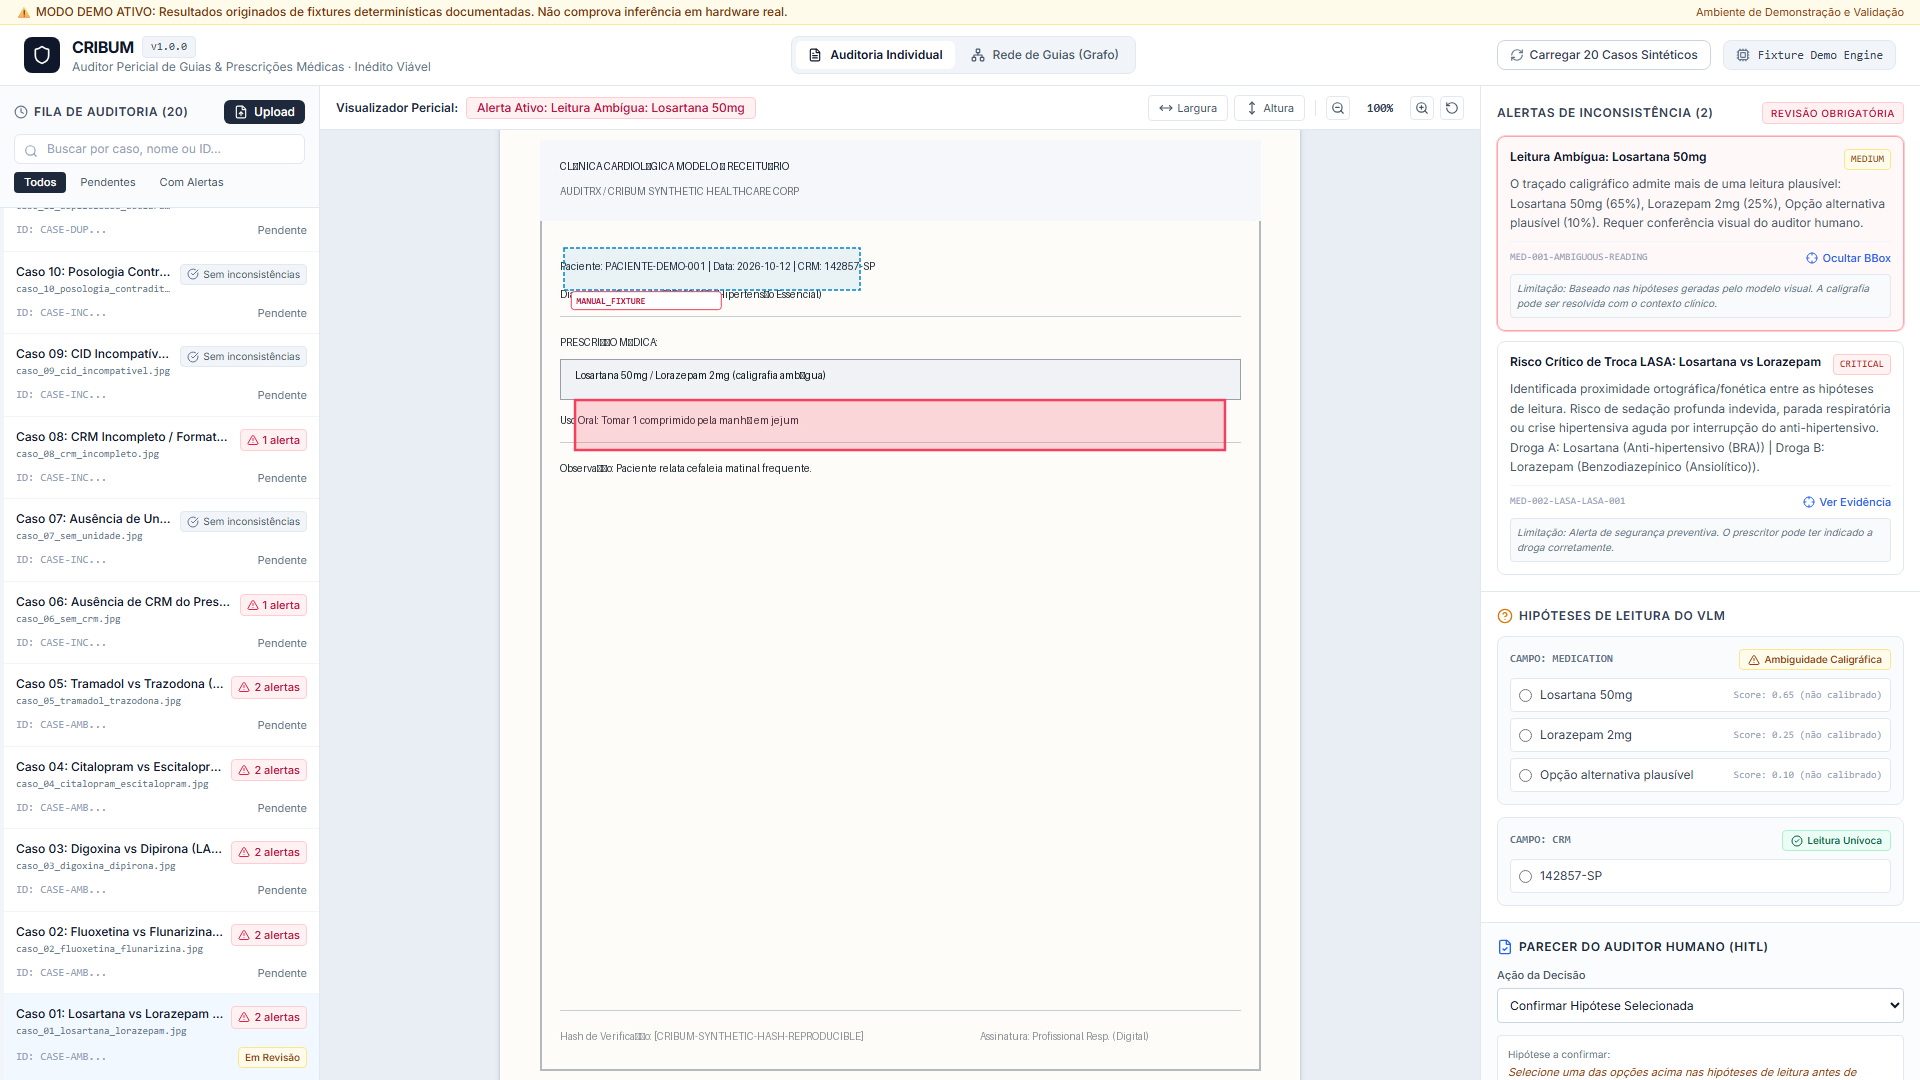
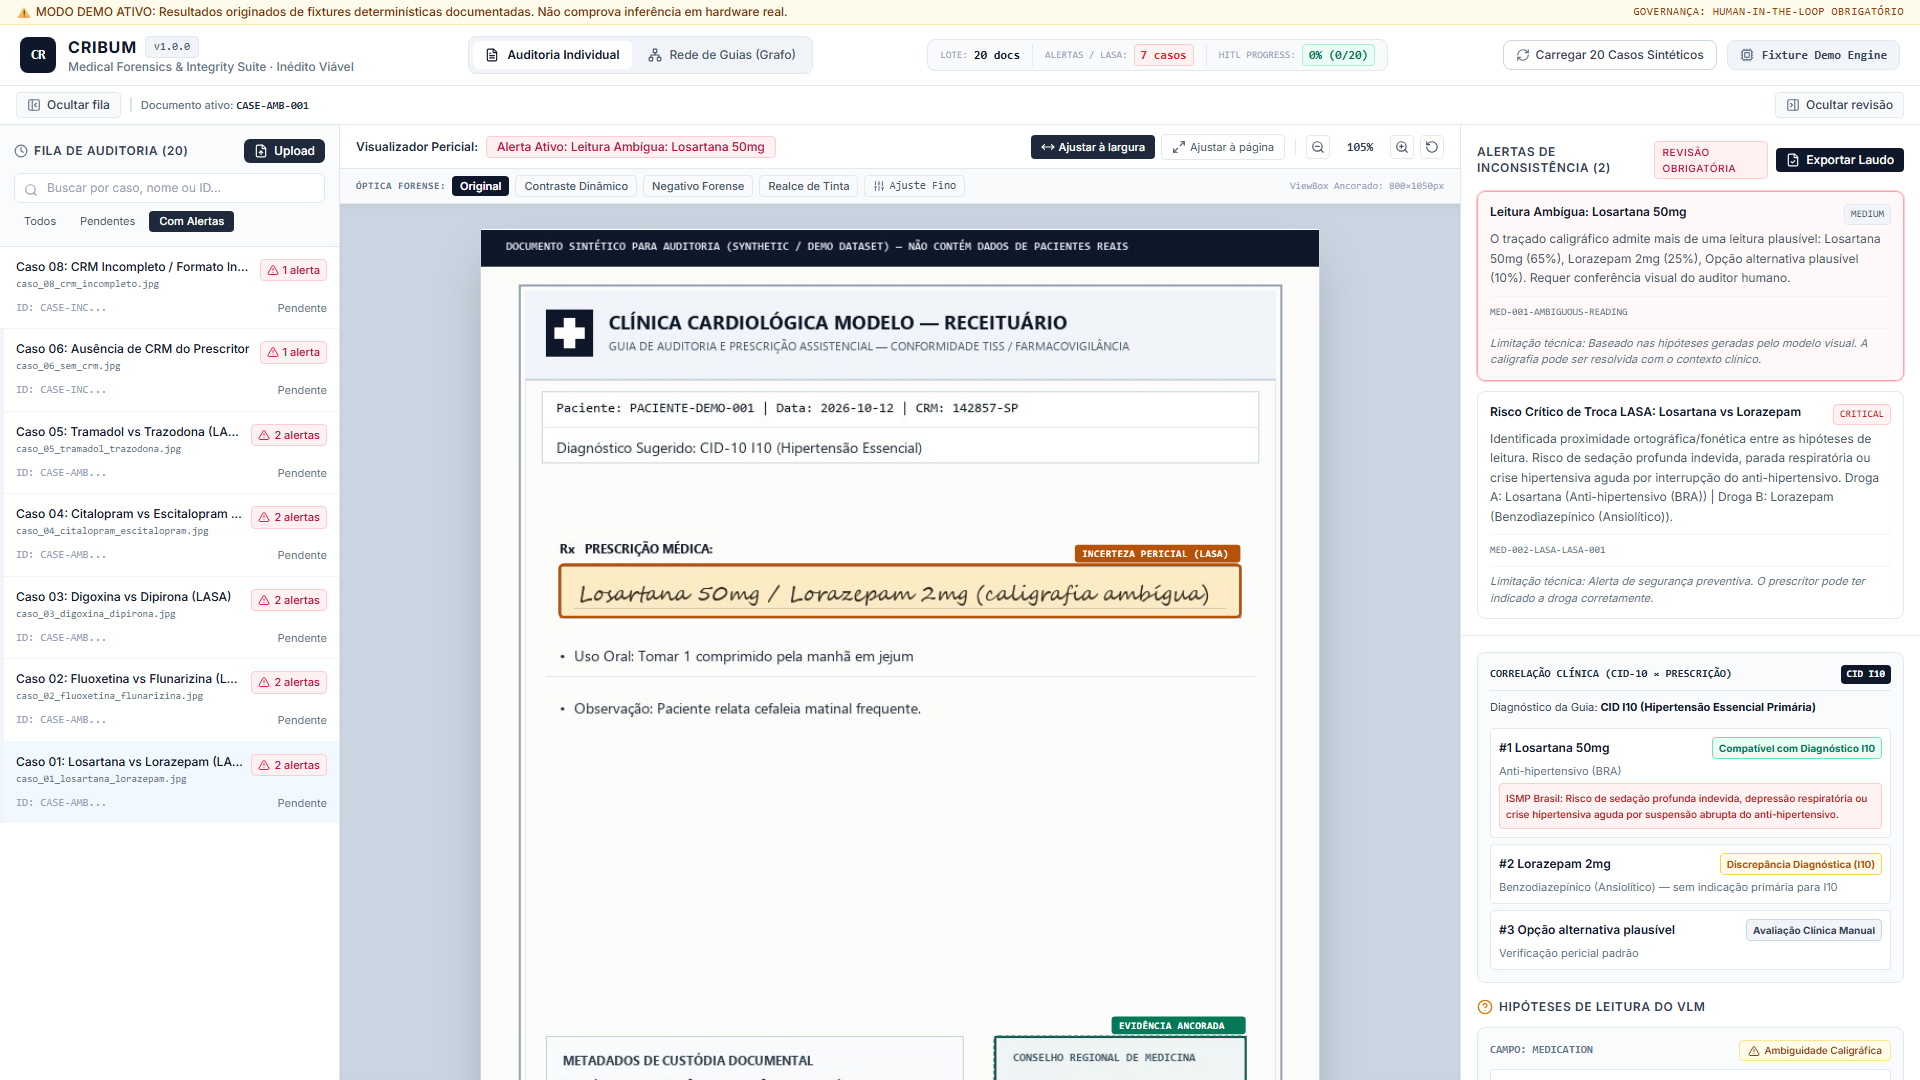
docs(screenshots): update high-resolution redesign captures and viewport scripts

Changed region(s): [[0.0, 0.0306, 1.0, 1.0], [0.25, 0.0306, 0.7188, 0.0611], [0.7812, 0.0, 1.0, 0.0611]]

diff --git a/frontend/scripts/record_cribum_demo.js b/frontend/scripts/record_cribum_demo.js
@@ -1,0 +1,150 @@
+import { chromium } from '@playwright/test';
+import path from 'path';
+import fs from 'fs';
+
+async function record() {
+  const framesDir = 'C:/Users/andre/.gemini/antigravity/scratch/portfolio_test/gif_frames';
+  if (!fs.existsSync(framesDir)) {
+    fs.mkdirSync(framesDir, { recursive: true });
+  } else {
+    const files = fs.readdirSync(framesDir);
+    for (const f of files) {
+      fs.unlinkSync(path.join(framesDir, f));
+    }
+  }
+
+  const browser = await chromium.launch({
+    headless: true,
+    args: [
+      '--no-sandbox',
+      '--disable-setuid-sandbox',
+      '--disable-web-security',
+      '--allow-running-insecure-content',
+      '--disable-features=IsolateOrigins,site-per-process',
+    ],
+  });
+
+  const page = await browser.newPage({
+    viewport: { width: 1440, height: 810 },
+    deviceScaleFactor: 1,
+  });
+
+  let frameIdx = 0;
+  async function snap(count = 1, delay = 100) {
+    for (let i = 0; i < count; i++) {
+      const p = path.join(framesDir, `frame_${String(frameIdx).padStart(4, '0')}.png`);
+      await page.screenshot({ path: p });
+      frameIdx++;
+      if (delay > 0) await page.waitForTimeout(delay);
+    }
+  }
+
+  for (let attempt = 0; attempt < 5; attempt++) {
+    try {
+      await page.goto('http://127.0.0.1:5173/', { waitUntil: 'networkidle', timeout: 15000 });
+      break;
+    } catch (e) {
+      if (attempt === 4) throw e;
+      await new Promise(r => setTimeout(r, 1000));
+    }
+  }
+  await page.waitForSelector('#document-queue', { timeout: 15000 });
+  await page.waitForTimeout(1000);
+
+  // Filter "Com Alertas"
+  const alertFilter = page.locator('button', { hasText: 'Com Alertas' });
+  if (await alertFilter.isVisible()) {
+    await alertFilter.click();
+    await page.waitForTimeout(400);
+  }
+
+  // Select Caso 01
+  const caso01 = page.locator('button', { hasText: 'Caso 01' }).first();
+  if (await caso01.isVisible()) {
+    await caso01.click();
+    await page.waitForTimeout(800);
+  }
+
+  // Select LASA finding to highlight
+  const lasaCard = page.locator('div', { hasText: 'Risco Crítico de Troca LASA' }).first();
+  if (await lasaCard.isVisible()) {
+    await lasaCard.click();
+    await page.waitForTimeout(500);
+  }
+
+  // Initial dashboard view (2 seconds)
+  await snap(10, 150);
+
+  // 1. Contraste Dinâmico
+  const contrastBtn = page.locator('[data-testid="filter-contrast"]');
+  if (await contrastBtn.isVisible()) {
+    await contrastBtn.click();
+    await page.waitForTimeout(200);
+    await snap(6, 150);
+  }
+
+  // 2. Negativo Forense
+  const invertBtn = page.locator('[data-testid="filter-invert"]');
+  if (await invertBtn.isVisible()) {
+    await invertBtn.click();
+    await page.waitForTimeout(200);
+    await snap(6, 150);
+  }
+
+  // 3. Realce de Tinta
+  const inkBtn = page.locator('[data-testid="filter-ink"]');
+  if (await inkBtn.isVisible()) {
+    await inkBtn.click();
+    await page.waitForTimeout(200);
+    await snap(6, 150);
+  }
+
+  // 4. Return to Original
+  const origBtn = page.locator('[data-testid="filter-none"]').or(page.locator('button', { hasText: 'Original' })).first();
+  if (await origBtn.isVisible()) {
+    await origBtn.click();
+    await page.waitForTimeout(200);
+    await snap(5, 150);
+  }
+
+  // 5. Open Forensic Report
+  const reportBtn = page.locator('[data-testid="export-forensic-report-btn"]');
+  if (await reportBtn.isVisible()) {
+    await reportBtn.click();
+    await page.waitForTimeout(500);
+    await snap(10, 200);
+
+    const closeBtn = page.locator('[data-testid="close-report-btn"]');
+    if (await closeBtn.isVisible()) {
+      await closeBtn.click();
+    } else {
+      await page.keyboard.press('Escape');
+    }
+    await page.waitForTimeout(300);
+    await snap(4, 150);
+  }
+
+  // 6. Switch to Network Graph
+  const redeTab = page.locator('button', { hasText: 'Rede de Guias' }).first();
+  if (await redeTab.isVisible()) {
+    await redeTab.click();
+    await page.waitForTimeout(800);
+    await snap(12, 200);
+  }
+
+  // 7. Back to Auditoria Individual
+  const auditTab = page.locator('button', { hasText: 'Auditoria Individual' }).first();
+  if (await auditTab.isVisible()) {
+    await auditTab.click();
+    await page.waitForTimeout(500);
+    await snap(6, 150);
+  }
+
+  await browser.close();
+  console.log(`Successfully recorded ${frameIdx} frames!`);
+}
+
+record().catch((e) => {
+  console.error(e);
+  process.exit(1);
+});

diff --git a/frontend/scripts/capture_multi_viewports.js b/frontend/scripts/capture_multi_viewports.js
@@ -1,0 +1,89 @@
+import { chromium } from '@playwright/test';
+import path from 'path';
+
+async function run() {
+  const browser = await chromium.launch({
+    headless: true,
+    args: ['--no-sandbox', '--disable-setuid-sandbox']
+  });
+
+  const viewports = [
+    { name: '1600x900', width: 1600, height: 900, dpr: 1 },
+    { name: '1920x1080', width: 1920, height: 1080, dpr: 1 },
+    { name: '1440x900', width: 1440, height: 900, dpr: 1 },
+  ];
+
+  const outDir = 'C:/Users/andre/.gemini/antigravity/scratch/portfolio_test';
+
+  for (const vp of viewports) {
+    const context = await browser.newContext({
+      viewport: { width: vp.width, height: vp.height },
+      deviceScaleFactor: vp.dpr,
+    });
+    const page = await context.newPage();
+    await page.goto('http://127.0.0.1:5173/');
+    await page.waitForTimeout(1000);
+
+    // Filter by "Com Alertas"
+    const alertFilter = page.locator('button', { hasText: 'Com Alertas' });
+    if (await alertFilter.isVisible()) {
+      await alertFilter.click();
+      await page.waitForTimeout(400);
+    }
+
+    // Select Caso 01
+    const caso01 = page.locator('button', { hasText: 'Caso 01' }).first();
+    if (await caso01.isVisible()) {
+      await caso01.click();
+      await page.waitForTimeout(1000);
+    }
+
+    // Click on the LASA finding card in the right panel to focus on it
+    const lasaCard = page.locator('div', { hasText: 'Risco Crítico de Troca LASA' }).first();
+    if (await lasaCard.isVisible()) {
+      await lasaCard.click();
+      await page.waitForTimeout(600);
+    }
+
+    // Take screenshot of Audit Dashboard
+    await page.screenshot({ path: path.join(outDir, `audit_${vp.name}.png`) });
+
+    // Open Report Modal
+    const reportBtn = page.locator('button', { hasText: 'Exportar Laudo' });
+    if (await reportBtn.isVisible()) {
+      await reportBtn.click();
+      await page.waitForTimeout(600);
+      await page.screenshot({ path: path.join(outDir, `report_modal_${vp.name}.png`) });
+
+      // Close modal
+      const closeBtn = page.locator('button', { hasText: 'Fechar' }).or(page.locator('button:has-text("✕")')).or(page.locator('button[aria-label="Close"]')).first();
+      if (await closeBtn.isVisible()) {
+        await closeBtn.click();
+        await page.waitForTimeout(400);
+      } else {
+        await page.keyboard.press('Escape');
+        await page.waitForTimeout(400);
+      }
+    }
+
+    // Switch to Rede de Guias (Grafo)
+    const redeTab = page.locator('button', { hasText: 'Rede de Guias (Grafo)' });
+    if (await redeTab.isVisible()) {
+      await redeTab.click();
+      await page.waitForTimeout(1200);
+
+      // Take screenshot of Graph view
+      await page.screenshot({ path: path.join(outDir, `graph_${vp.name}.png`) });
+    }
+
+    await context.close();
+  }
+
+  await browser.close();
+  console.log('All viewports rendered successfully!');
+}
+
+run().catch((e) => {
+  console.error(e);
+  process.exit(1);
+});

diff --git a/frontend/scripts/capture_portfolio_shots.js b/frontend/scripts/capture_portfolio_shots.js
@@ -1,0 +1,70 @@
+import { chromium } from '@playwright/test';
+import path from 'path';
+import { fileURLToPath } from 'url';
+
+const __filename = fileURLToPath(import.meta.url);
+const __dirname = path.dirname(__filename);
+
+async function capture() {
+  const browser = await chromium.launch({
+    headless: true,
+    args: [
+      '--no-sandbox',
+      '--disable-setuid-sandbox',
+      '--disable-web-security',
+      '--allow-running-insecure-content',
+    ],
+  });
+
+  const viewports = [
+    { name: 'vp_1440x900', width: 1440, height: 900, dpr: 1 },
+    { name: 'vp_1440x900_2x', width: 1440, height: 900, dpr: 2 },
+    { name: 'vp_1600x900', width: 1600, height: 900, dpr: 1 },
+    { name: 'vp_1920x1080', width: 1920, height: 1080, dpr: 1 },
+  ];
+
+  const outDir = 'C:/Users/andre/.gemini/antigravity/scratch/portfolio_test';
+
+  for (const vp of viewports) {
+    const context = await browser.newContext({
+      viewport: { width: vp.width, height: vp.height },
+      deviceScaleFactor: vp.dpr,
+    });
+    const page = await context.newPage();
+
+    await page.goto('http://127.0.0.1:5173/');
+    await page.waitForSelector('img[alt="Guia Médica Original"]', { timeout: 15000 });
+
+    // Select Caso 01
+    const caso01 = page.locator('button', { hasText: 'Caso 01' }).first();
+    if (await caso01.isVisible()) {
+      await caso01.click();
+    }
+    await page.waitForTimeout(1000);
+
+    const auditPath = path.join(outDir, `${vp.name}_audit.png`);
+    await page.screenshot({ path: auditPath, fullPage: false });
+    console.log(`Saved audit: ${auditPath}`);
+
+    // Switch to graph tab
+    const redeTab = page.locator('button', { hasText: 'Rede de Guias (Grafo)' });
+    if (await redeTab.isVisible()) {
+      await redeTab.click();
+      await page.waitForTimeout(1200);
+
+      const graphPath = path.join(outDir, `${vp.name}_graph.png`);
+      await page.screenshot({ path: graphPath, fullPage: false });
+      console.log(`Saved graph: ${graphPath}`);
+    }
+
+    await context.close();
+  }
+
+  await browser.close();
+  console.log('Capture complete!');
+}
+
+capture().catch((err) => {
+  console.error(err);
+  process.exit(1);
+});
